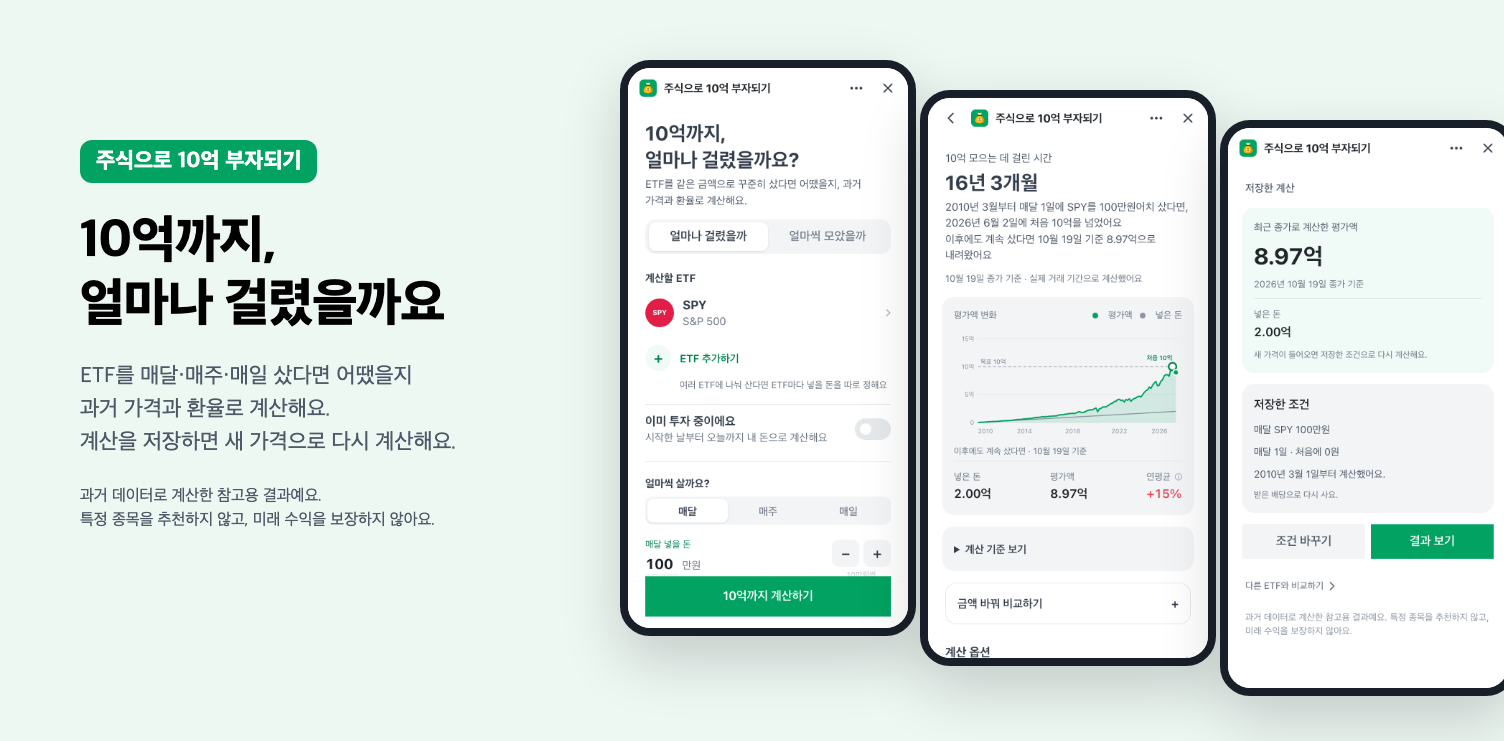
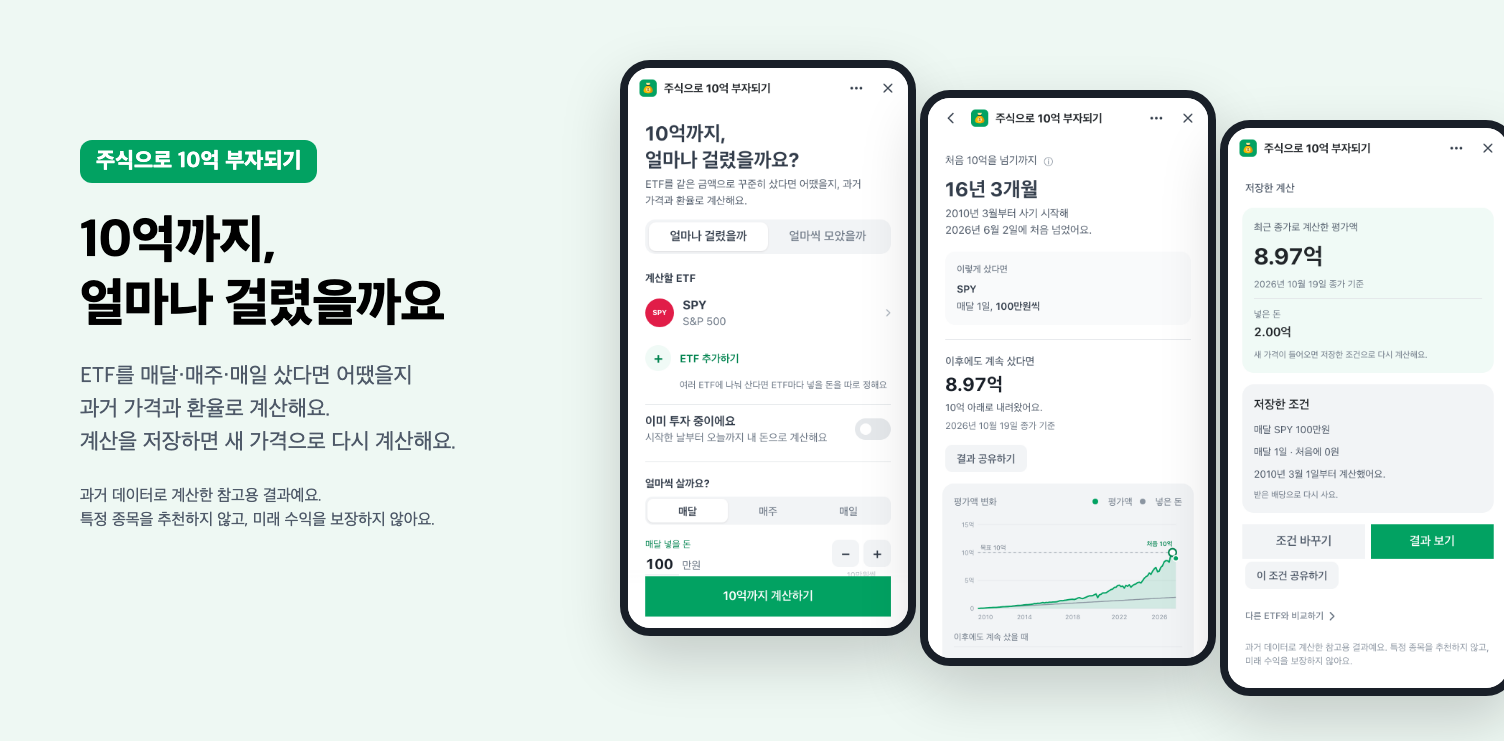
결과 상단에서 첫 도달·매수 조건·최근 평가액을 구분

diff --git a/toss/src/screens/ResultScreen.tsx b/toss/src/screens/ResultScreen.tsx
@@ -7,7 +7,7 @@ import { analytics, shareResult } from "../lib/platform";
 import type { WatchAd } from "../App";
 import { calcPlan, commonEnd, TARGET, type Calc, type Plan, type RowsBy, shareQueryOf } from "../lib/plan";
 import { saveClock } from "../lib/clock";
-import { fmt, manLabel, ymKo, ymdKo, mdKo, durKo, freqAdverb, freqWord, holdingsTitle, eulReul, euroRo, ieyo } from "../lib/fmt";
+import { fmt, manLabel, ymKo, ymdKo, mdKo, durKo, freqAdverb, freqLabel, freqWord, holdingsTitle, eulReul, ieyo } from "../lib/fmt";
 import { CalculationBasis } from "../components/CalculationBasis";
 import { ContributionComparison } from "../components/ContributionComparison";
 import { prepareTimingAnalysis } from "../lib/timingAnalysis";
@@ -23,6 +23,7 @@ export function ResultScreen({ plan, setPlan, watchAd, back, goClock, showToast,
   const timingOpen = unlockedTimingKey === timingKey;
   const [optsOpen, setOptsOpen] = useState(false);
   const [tip, setTip] = useState(false);
+  const [reachTip, setReachTip] = useState(false);
 
   const tickers = plan.holdings.map((h) => h.ticker);
   const tickersKey = tickers.join(",");
@@ -71,7 +72,7 @@ export function ResultScreen({ plan, setPlan, watchAd, back, goClock, showToast,
   const names = holdingsTitle(plan);
   const adverb = freqAdverb(plan);
   const lumpStr = plan.lump > 0 ? `${manLabel(plan.lump)}으로 시작해 ` : "";
-  const buyStr = `${lumpStr}${adverb} ${eulReul(names)} ${fmt.amount(calc.monthlyWon)}어치`;
+  const buyStr = `${lumpStr}${adverb} ${eulReul(names)} ${multi ? "합계 " : ""}${fmt.amount(calc.monthlyWon)}어치`;
   const start = r.series[0]?.date ?? rows[0].date;
   // 가격 기준일: 모든 종목에 가격이 있는 마지막 날(분산 매수면 종목 중 가장 이른 마지막 날)
   const end = multi ? commonEnd(rowsBy, plan) : rows[rows.length - 1].date;
@@ -101,17 +102,15 @@ export function ResultScreen({ plan, setPlan, watchAd, back, goClock, showToast,
       ? <>{ymKo(start)}에 {eulReul(names)} {manLabel(plan.lump)}어치 샀다면<br />{asOf} 10억이 넘었어요</>
       : <>{ymKo(start)}부터 {lumpStr}{adverb} {eulReul(names)} {fmt.amount(calc.reqMonthly ?? 0)}씩 샀다면<br />{asOf} 10억이 됐어요</>;
   } else if (reachedTime && calc.reach) {
-    // 처음 10억을 넘은 시점까지(반짝 고점 포함, 10/22). 오늘 금액은 기준일과 함께 따로.
-    lead = "10억 모으는 데 걸린 시간";
+    lead = "처음 10억을 넘기까지";
     num = durKo(r.years, r.monthsRem);
-    const today = r.value >= TARGET ? `이후에도 계속 샀다면 ${asOf} ${ieyo(fmt.money(r.value))}` : `이후에도 계속 샀다면 ${asOf} ${euroRo(fmt.money(r.value))} 내려왔어요`;
-    sub = <>{ymKo(start)}부터 {buyStr} 샀다면, {ymdKo(calc.reach.date)}에 처음 10억을 넘었어요<br />{today}</>;
+    sub = <>{ymKo(start)}부터 사기 시작해<br />{ymdKo(calc.reach.date)}에 처음 넘었어요.</>;
   } else {
     lead = "이 기간에는 10억을 넘지 않았어요";
     num = fmt.money(r.value);
     sub = <>{ymKo(start)}부터 {durKo(r.years, r.monthsRem)} 동안 {buyStr} 샀을 때<br />{asOf} 금액이에요</>;
   }
-  const statsLabel = reachedTime ? `이후에도 계속 샀다면 · ${asOf}` : asOf;
+  const statsLabel = reachedTime ? "이후에도 계속 샀을 때" : asOf;
   const cagrPct = `${Math.abs(Math.round(r.cagr * 100))}%`;
   const amtMode = plan.mode === "amount" && !calc.tracking;
   const query = shareQueryOf(plan);
@@ -129,7 +128,7 @@ export function ResultScreen({ plan, setPlan, watchAd, back, goClock, showToast,
         : `${ymKo(start)}부터 ${calc.yearsUsed}년간 ${lumpStr}${adverb} ${eulReul(names)} ${fmt.amount(calc.reqMonthly ?? 0)}씩 샀다면 ${ymdKo(end)}에 10억이 됐어요${tail}`;
     }
     if (reachedTime && calc.reach) {
-      return `${ymKo(start)}부터 ${buyStr} 샀다면 ${durKo(r.years, r.monthsRem)} 만인 ${ymKo(calc.reach.date)}에 처음 10억을 넘었어요${tail}`;
+      return `${ymKo(start)}부터 ${buyStr} 샀다면 ${durKo(r.years, r.monthsRem)} 만인 ${ymdKo(calc.reach.date)}에 처음 10억을 넘었어요${tail}`;
     }
     return `${ymKo(start)}부터 ${buyStr} 샀다면 ${ymdKo(end)} 기준 ${ieyo(fmt.money(r.value))}${tail}`;
   };
@@ -159,15 +158,32 @@ export function ResultScreen({ plan, setPlan, watchAd, back, goClock, showToast,
       <Top
         upperGap={16}
         lowerGap={8}
-        subtitleTop={<Top.SubtitleParagraph size={15}>{lead}</Top.SubtitleParagraph>}
+        subtitleTop={<Top.SubtitleParagraph size={15}>
+          {lead}{reachedTime && <button type="button" className="info reach-info" aria-label="기간 계산 방식 설명" aria-expanded={reachTip} aria-controls="reach-basis" onClick={() => setReachTip((value) => !value)}>ⓘ</button>}
+        </Top.SubtitleParagraph>}
         title={<Top.TitleParagraph size={28}>{num}</Top.TitleParagraph>}
         subtitleBottom={<Top.SubtitleParagraph size={15}>{sub}</Top.SubtitleParagraph>}
       />
+      {reachedTime && <>
+        {reachTip && <div id="reach-basis" className="reach-basis tip">10억을 넘은 경우 중 가장 최근에 시작한 달을 찾았어요. 가장 짧게 걸린 기간을 뜻하지는 않아요.</div>}
+        <section className="result-conditions" aria-label="매수 조건">
+          <h2>이렇게 샀다면</h2>
+          <p className="result-etfs">{plan.holdings.map((holding) => tickerTitle(holding.ticker)).join(" · ")}</p>
+          <p>{plan.freq === "daily" ? "거래일마다" : freqLabel(plan)}, {multi ? `${tickers.length}개 ETF에 ` : ""}<strong>{multi ? "합계 " : ""}{fmt.amount(calc.monthlyWon)}씩</strong></p>
+          {plan.lump > 0 && <p className="result-lump">처음에 {manLabel(plan.lump)}으로 시작</p>}
+        </section>
+        <section className="result-current" aria-label="계속 샀을 때의 평가액">
+          <h2>이후에도 계속 샀다면</h2>
+          <p className="result-current-value">{fmt.money(r.value)}</p>
+          {r.value < TARGET && <p className="result-current-note">10억 아래로 내려왔어요.</p>}
+          <p className="result-current-date">{ymdKo(end)} 종가 기준</p>
+        </section>
+      </>}
       <div className="share-top"><Button color="dark" variant="weak" size="medium" onClick={share}>결과 공유하기</Button></div>
-      <div className="data-notes">
+      {(adjNote || !reachedTime) && <div className="data-notes">
         {adjNote && <p className="data-note">{adjNote}</p>}
-        <p className="data-note">{mdKo(end)} 종가 기준 · 실제 거래 기간으로 계산했어요</p>
-      </div>
+        {!reachedTime && <p className="data-note">{mdKo(end)} 종가 기준 · 실제 거래 기간으로 계산했어요</p>}
+      </div>}
 
       <div className="card">
         <div className="card-head">

diff --git a/toss/src/tds.css b/toss/src/tds.css
@@ -274,3 +274,19 @@ input[type="date"].select { font-size: 18px; min-height: 29px; }
 .basis-list p { margin: 4px 0 0; }
 /* 공유 버튼: 결과 숫자 바로 아래·시계 버튼 아래 */
 .share-top { padding: 4px 24px 0; }
+
+/* 처음 도달한 때, 매수 조건, 계속 샀을 때의 평가액을 구분한다. */
+.reach-info { display: inline-flex; align-items: center; justify-content: center; width: 32px; height: 32px; padding: 0; font-size: 15px; vertical-align: middle; cursor: pointer; }
+.reach-basis { margin: 4px 24px 0; background: var(--grey100); }
+.result-conditions { margin: 12px 24px 0; padding: 14px 16px; background: var(--grey50); border-radius: 14px; color: var(--grey700); font-size: 14px; line-height: 1.6; word-break: keep-all; overflow-wrap: anywhere; }
+.result-conditions h2 { margin: 0 0 6px; font-size: 13px; font-weight: 500; color: var(--grey600); }
+.result-conditions p { margin: 0; }
+.result-conditions .result-etfs { margin-bottom: 2px; color: var(--grey800); font-weight: 600; }
+.result-conditions strong { font-weight: 600; color: var(--grey800); }
+.result-conditions .result-lump { margin-top: 4px; font-size: 13px; color: var(--grey600); }
+.result-current { margin: 20px 24px 0; padding-top: 18px; border-top: 1px solid var(--grey200); }
+.result-current h2 { margin: 0; font-size: 15px; font-weight: 500; color: var(--grey700); }
+.result-current-value { margin: 4px 0; font-size: 26px; line-height: 1.35; font-weight: 700; color: var(--grey900); font-variant-numeric: tabular-nums; }
+.result-current-note { margin: 4px 0 0; font-size: 14px; color: var(--grey700); }
+.result-current-date { margin: 6px 0 0; font-size: 13px; color: var(--grey600); }
+.result-current + .share-top { padding-top: 16px; }

diff --git a/toss/UX_WRITING.md b/toss/UX_WRITING.md
@@ -1,4 +1,4 @@
-# 10억 모으기 미니앱 — UX 라이팅 가이드
+# 주식으로 10억 부자되기 — UX 라이팅 가이드
 
 > 작성 2026-10-19. 토스·당근 등 한국에서 UX 평가가 좋은 앱들의 **공개된** 라이팅 원칙을 바탕으로, 이 미니앱의 문구 규칙과 용어 사전을 정한다.
 > 웹(jeongcheol.cloud)의 `DESIGN.md §5 쉬운 말 카피 원칙`과 충돌하지 않게 썼고, 미니앱은 토스 심사·정책 조항을 우선한다.
@@ -52,8 +52,7 @@
 | 계산할 ETF | 홈 종목 섹션 라벨(1종목). 2종목 이상은 "N개 ETF에 나눠 사요" | ETF(라벨 단독), 종목 선택 |
 | 계산 저장하기 | 조건을 기기에 저장해 '저장한 계산' 화면에서 새 가격으로 다시 계산(CTA) | 내 10억 시계로 저장하기(길고 화면 이름과 겹침), 알림 받기 |
 | 몇 년 동안 샀다고 볼까요? | 금액 모드 적립 기간(과거 N년) | 몇 년 안에 모을까요(미래 계획처럼 읽힘) |
-| 과거 가격과 환율로 계산해요 | 일별 종가와 그날 환율(없으면 직전 값) | 실제 과거 가격(일부 종목은 상장 전 추정치라 일괄 표현 금지) |
-| 일부 과거 가격은 추정치예요 | 상장 전 구간을 유사 지수로 접합한 종목이 섞인 계산 | 실제 가격, 프록시 |
+| 실제 거래 자료로 계산해요 | 미니앱은 상장 전 추정 구간을 제외한 일별 종가와 그날 환율(없으면 직전 값) | 일부 과거 가격은 추정치예요 |
 | 처음 10억을 넘기까지 · 가장 최근에 시작해 10억을 넘은 경우 | 기간 모드: 오늘까지 한 번이라도 10억을 넘은 시작월 중 가장 늦은 달 → 처음 넘은 날까지 걸린 기간 | 가장 짧은, 최단, 10억이 될 때까지 |
 | N년 M개월 만에 처음 10억을 넘었다가 내려왔어요 | 첫 도달 후 기준일 평가액이 10억 아래 | 찍고 내려왔어요, 미달 |
 | 이 기간에는 10억을 넘지 않았어요 | 데이터 첫 달부터 샀어도 목표 미도달 | 미달, 실패, N년째 모으는 중 |
@@ -123,6 +122,7 @@
 
 - 미니앱은 실제 거래 이력만 계산한다. 웹용 데이터에 있는 상장 전 추정 구간은 미니앱 데이터 로더에서 제외한다. 종목 선택에는 계산 가능한 시작월을 표시한다.
 - 결과의 **계산 기준 보기**에는 기간·시작일 선택 방식·매수 일정과 금액·처음 넣은 돈·배당·세금과 수수료·가격과 환율 기준일을 보여준다.
+- 도달 결과 상단은 **처음 10억을 넘기까지**(기간·시작월·첫 도달일), **이렇게 샀다면**(ETF·매수일·합계 납입액·목돈), **이후에도 계속 샀다면**(마지막 평가액·기준일)로 나눈다. 공유 버튼은 세 내용을 읽은 뒤에 둔다. 기간 옆 설명에서 ‘가장 최근 시작’이며 ‘최단 기간’은 아님을 밝힌다.
 - **저장한 계산**은 저장 조건·최근 평가액·넣은 돈·기준일과 조건 변경/결과 보기로 구성한다. 기존 시계의 진행률·변화량·예상 일수·종목 순위는 표시하지 않는다. 저장 키와 딥링크는 호환성을 위해 유지한다.
 - **금액 바꿔 비교하기**는 원래 매수 일정과 계산 종료일을 고정한다. 금액을 바꿔도 시작일을 다시 찾지 않는다. 목돈 배분·배당 조건도 유지한다.
 - **시작 시점 비교하기**는 비교 결과를 먼저 계산하고, 비교 가능한 경우에만 광고 버튼을 보여준다.
@@ -131,4 +131,3 @@
 ## 6. 아직 결정 못 한 것
 - "보여드려요/알려드려요" 같은 '드리다' 존대를 토스처럼 완전히 뺄지(토스는 "알려드릴게요"를 씀 → 허용으로 둠).
 - 상승·하락 색 관례(토스: 상승 빨강·하락 파랑)와 "줄었어요/늘었어요" 동사 병기 여부 — 타일에는 부호만, 토스트·푸시 문구에는 동사 사용 예정.
-- 앱 이름(국문 15자): "10억 모으기" 유지 vs "10억까지" — 심사 전 결정. **추천(10/20): '10억 모으기' 유지**(코드 title·공유 문구와 일치), 영문 'Billion Goal'. 근거·대안은 `toss/APP_INFO.md §1`.
